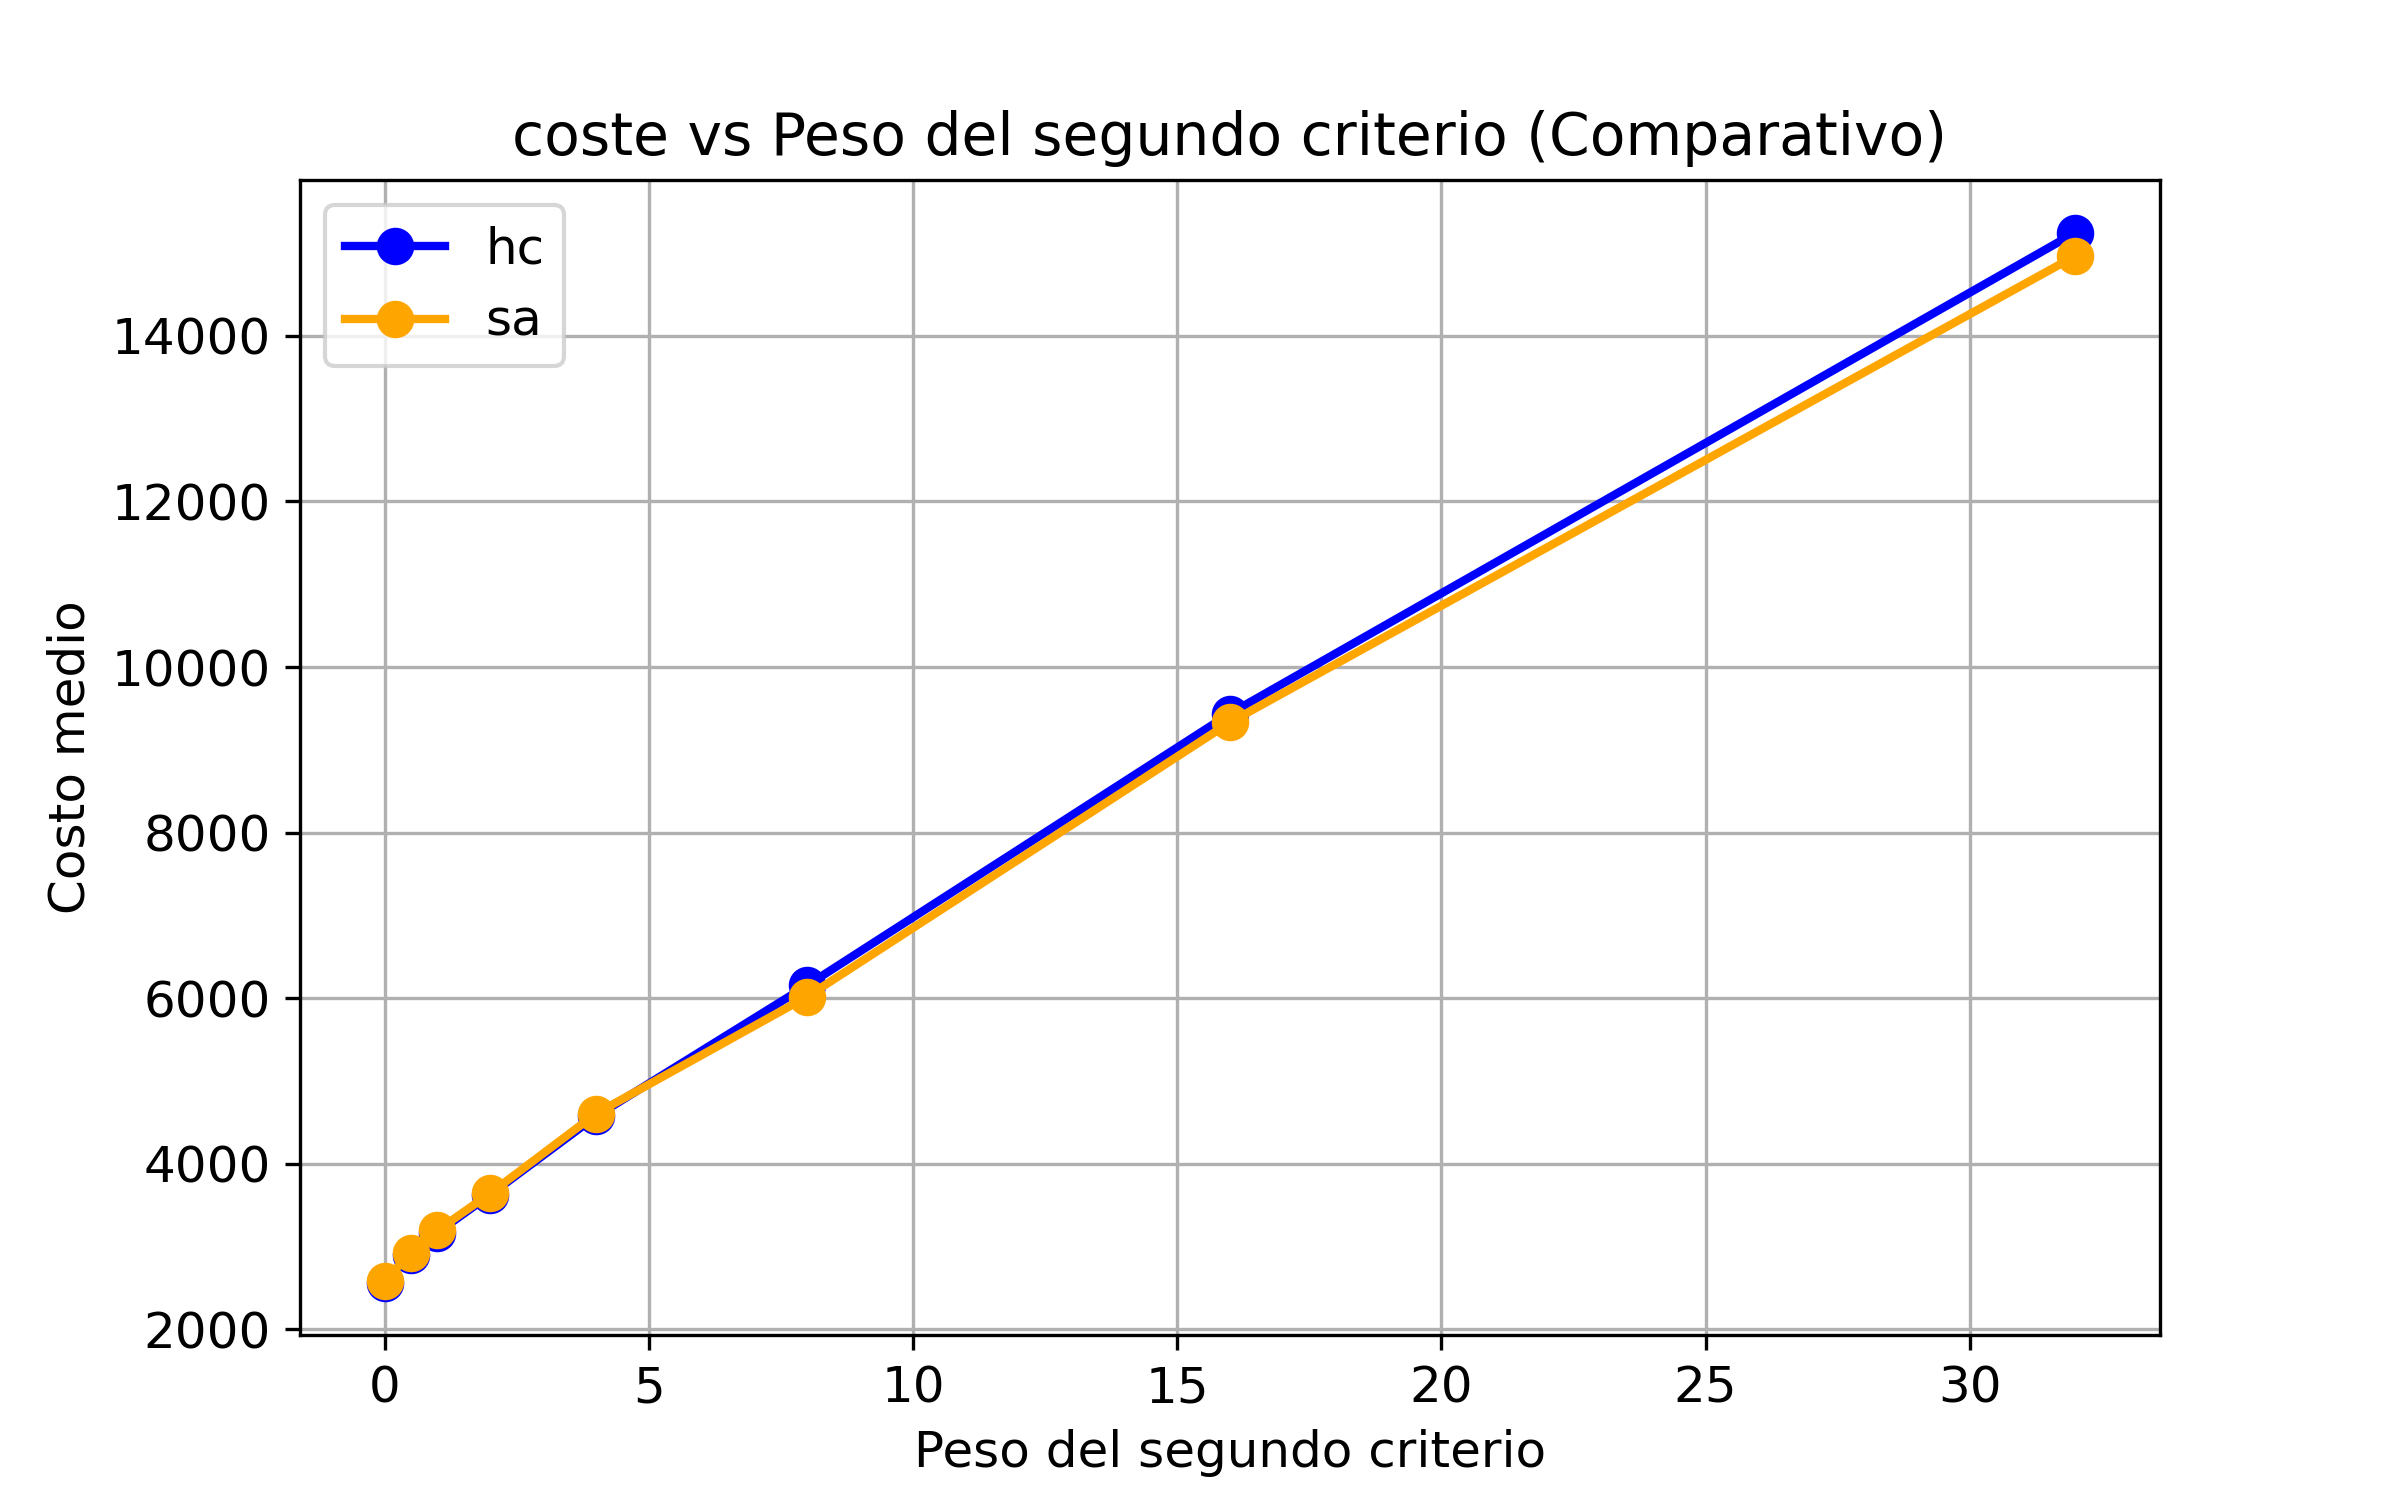
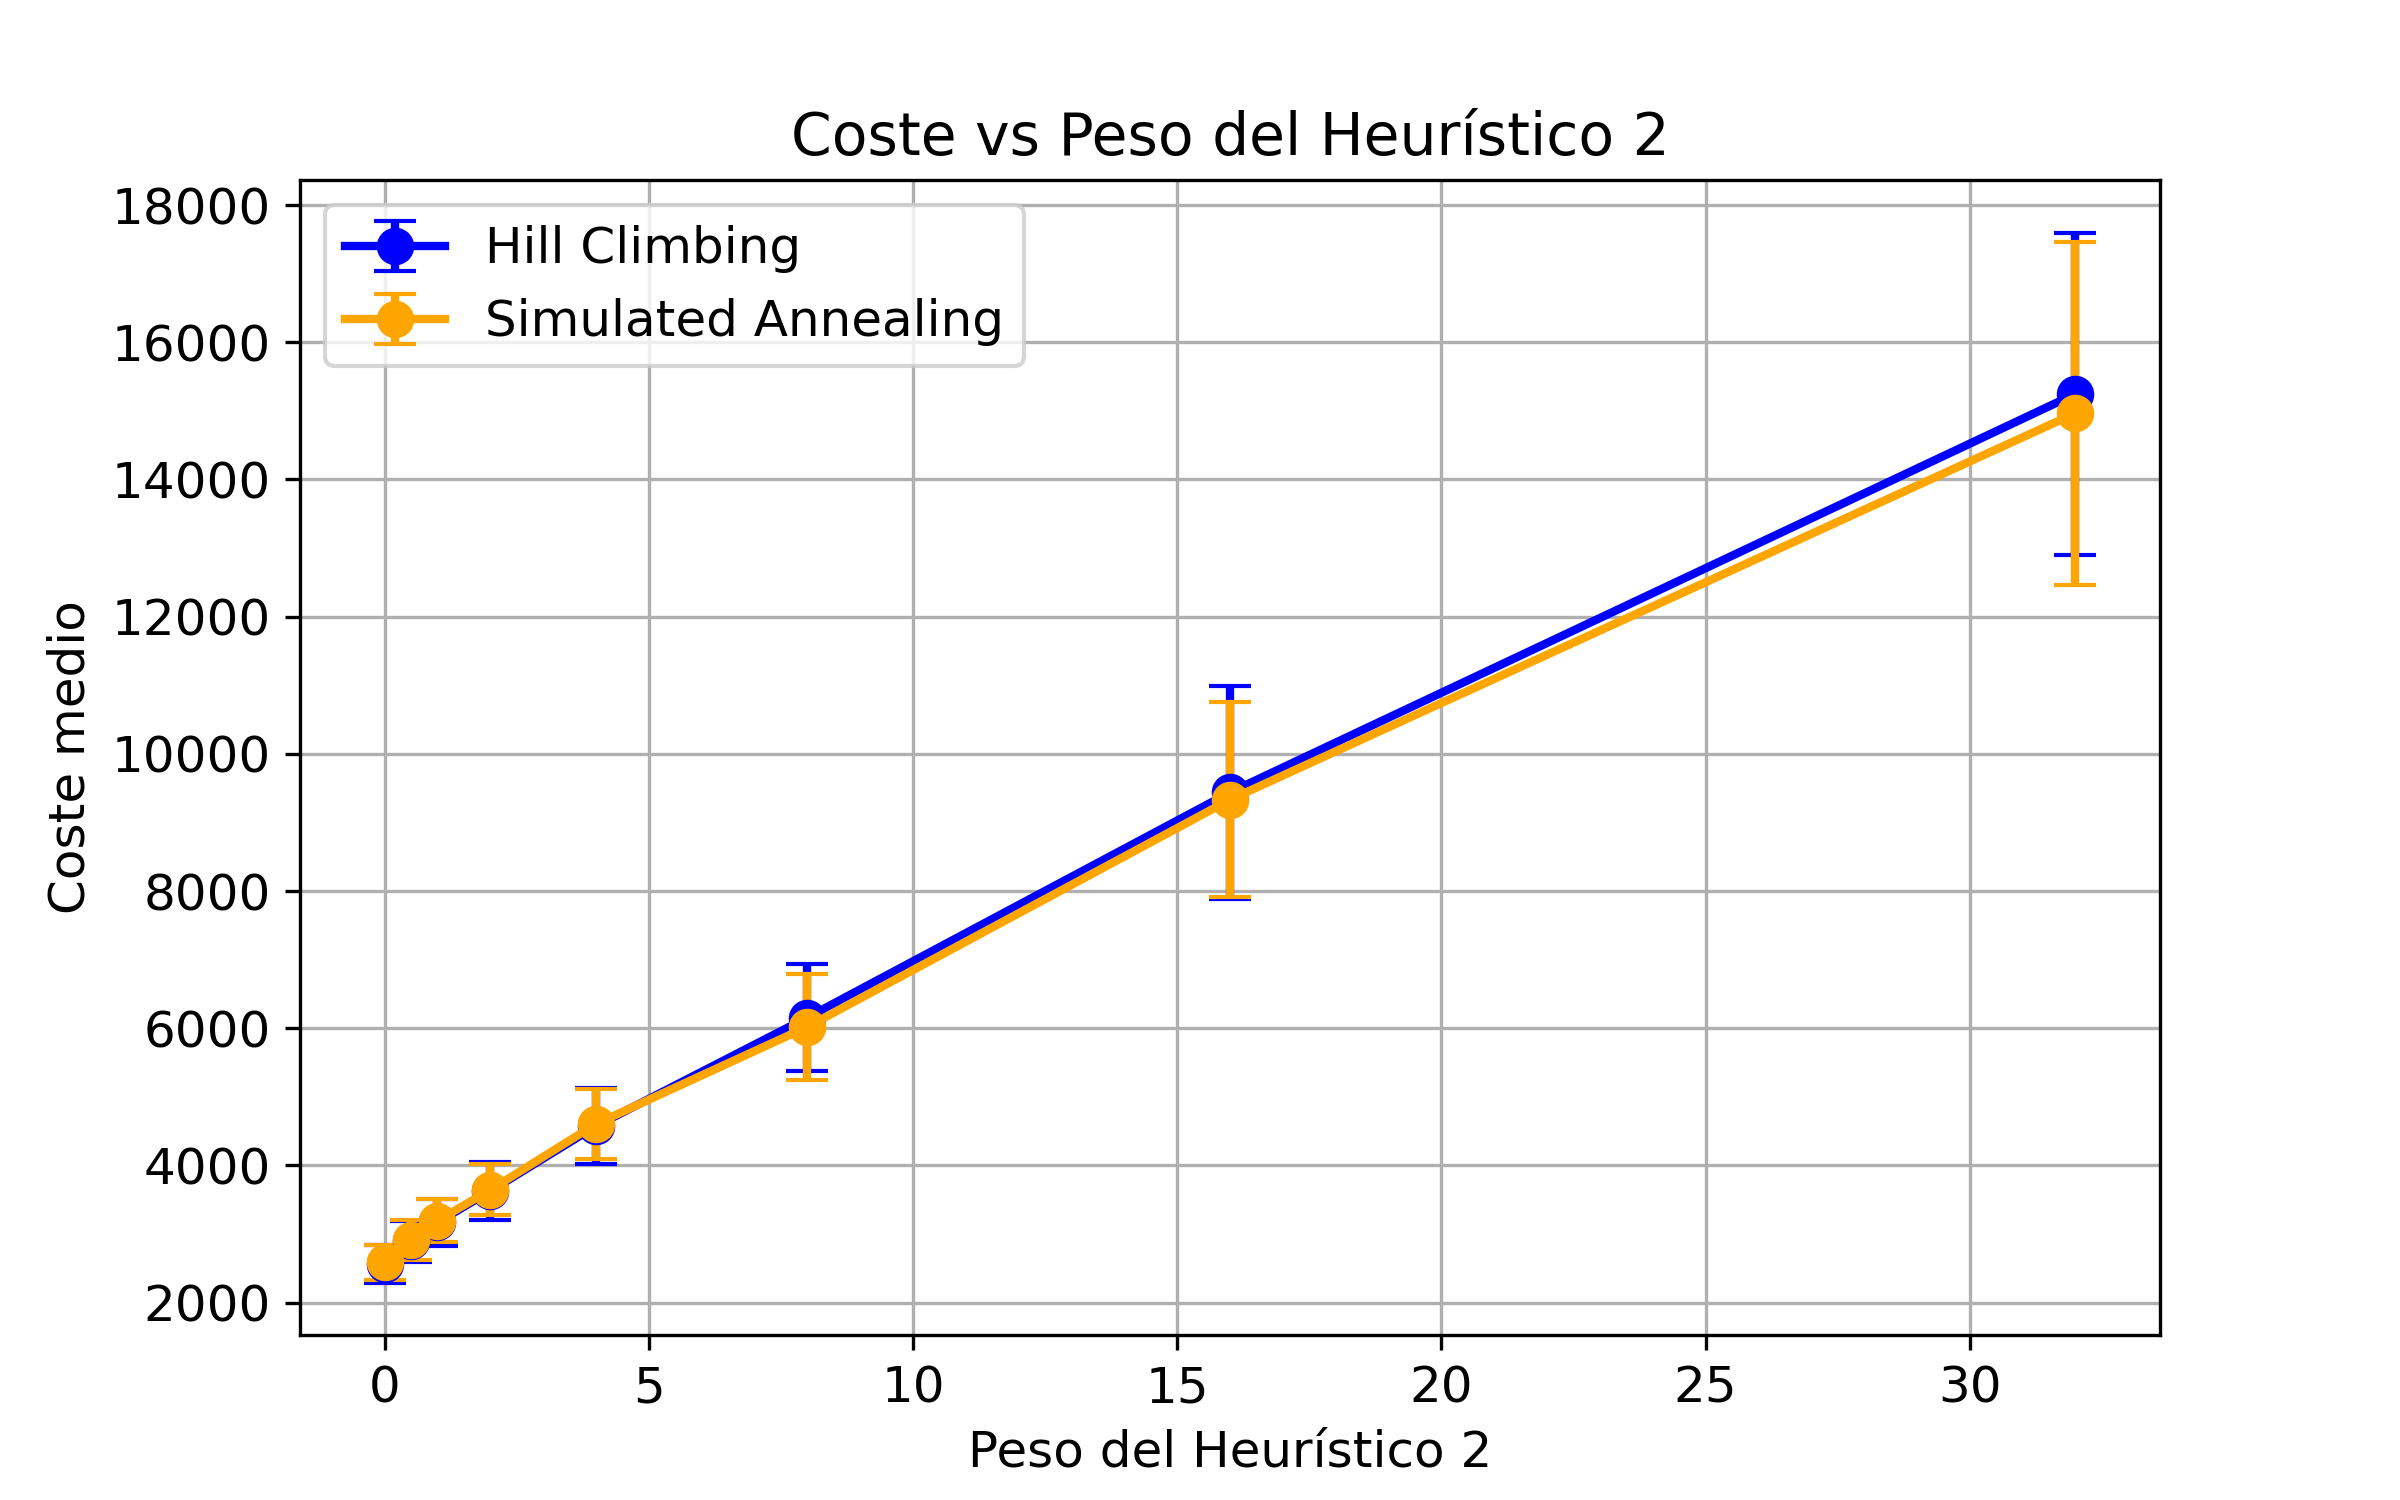
update plots for exp7

diff --git a/resultados/exp7/plot.py b/resultados/exp7/plot.py
@@ -19,6 +19,12 @@ df = pd.read_csv("runs.csv")
 # Algoritmos a analizar
 algoritmos = ["hc", "sa"]
 
+# Mapeo de nombres para la leyenda
+labels = {
+    "hc": "Hill Climbing",
+    "sa": "Simulated Annealing"
+}
+
 for alg in algoritmos:
     df_alg = df[df['algoritmo'] == alg]
 
@@ -33,7 +39,7 @@ for alg in algoritmos:
     # Gráfico de Coste vs Peso del segundo criterio
     plt.figure(figsize=(8,5))
     plt.errorbar(grouped["peso_h2"], grouped["coste_mean"], yerr=grouped["coste_std"],
-                 fmt='-o', capsize=5, label=f'{alg} - Coste')
+                 fmt='-o', capsize=5, label=labels[alg])
     plt.title(f'Coste vs Peso del segundo criterio ({alg})')
     plt.xlabel('Peso del segundo criterio')
     plt.ylabel('Coste medio')
@@ -54,17 +60,34 @@ for alg in algoritmos:
     plt.savefig(f"tiempo_{alg}.png", dpi=300)
     plt.close()
 
-# Gráfico comparativo Coste y Tiempo para ambos algoritmos
-for metric in ["coste", "tiempo_ms"]:
+for metric in ["coste", "tiempo"]:
     plt.figure(figsize=(8,5))
+
     for alg, color in zip(algoritmos, ["blue", "orange"]):
         df_alg = df[df['algoritmo'] == alg]
-        grouped = df_alg.groupby("peso_h2")[metric].mean().reset_index()
-        plt.plot(grouped["peso_h2"], grouped[metric], '-o', label=alg, color=color)
-    
-    plt.title(f'{metric} vs Peso del segundo criterio (Comparativo)')
-    plt.xlabel('Peso del segundo criterio')
-    plt.ylabel('Costo medio' if metric=="coste" else 'Tiempo medio (ms)')
+
+        grouped = df_alg.groupby("peso_h2").agg({
+            "tiempo_ms": ["mean", "std"],
+            "coste": ["mean", "std"]
+        }).reset_index()
+
+        # Renombrar columnas
+        grouped.columns = ["peso_h2", "tiempo_mean", "tiempo_std", "coste_mean", "coste_std"]
+
+        # Elegir columnas según métrica
+        if metric == "coste":
+            y = grouped["coste_mean"]
+            yerr = grouped["coste_std"]
+        else:
+            y = grouped["tiempo_mean"]
+            yerr = grouped["tiempo_std"]
+
+        plt.errorbar(grouped["peso_h2"], y, yerr=yerr,
+                     fmt='-o', capsize=5, label=labels[alg], color=color)
+
+    plt.title(f'{metric.capitalize()} vs Peso del Heurístico 2')
+    plt.xlabel('Peso del Heurístico 2')
+    plt.ylabel('Coste medio' if metric=="coste" else 'Tiempo medio (ms)')
     plt.grid(True)
     plt.legend()
     plt.savefig(f"{metric}_comparativo.png", dpi=300)
